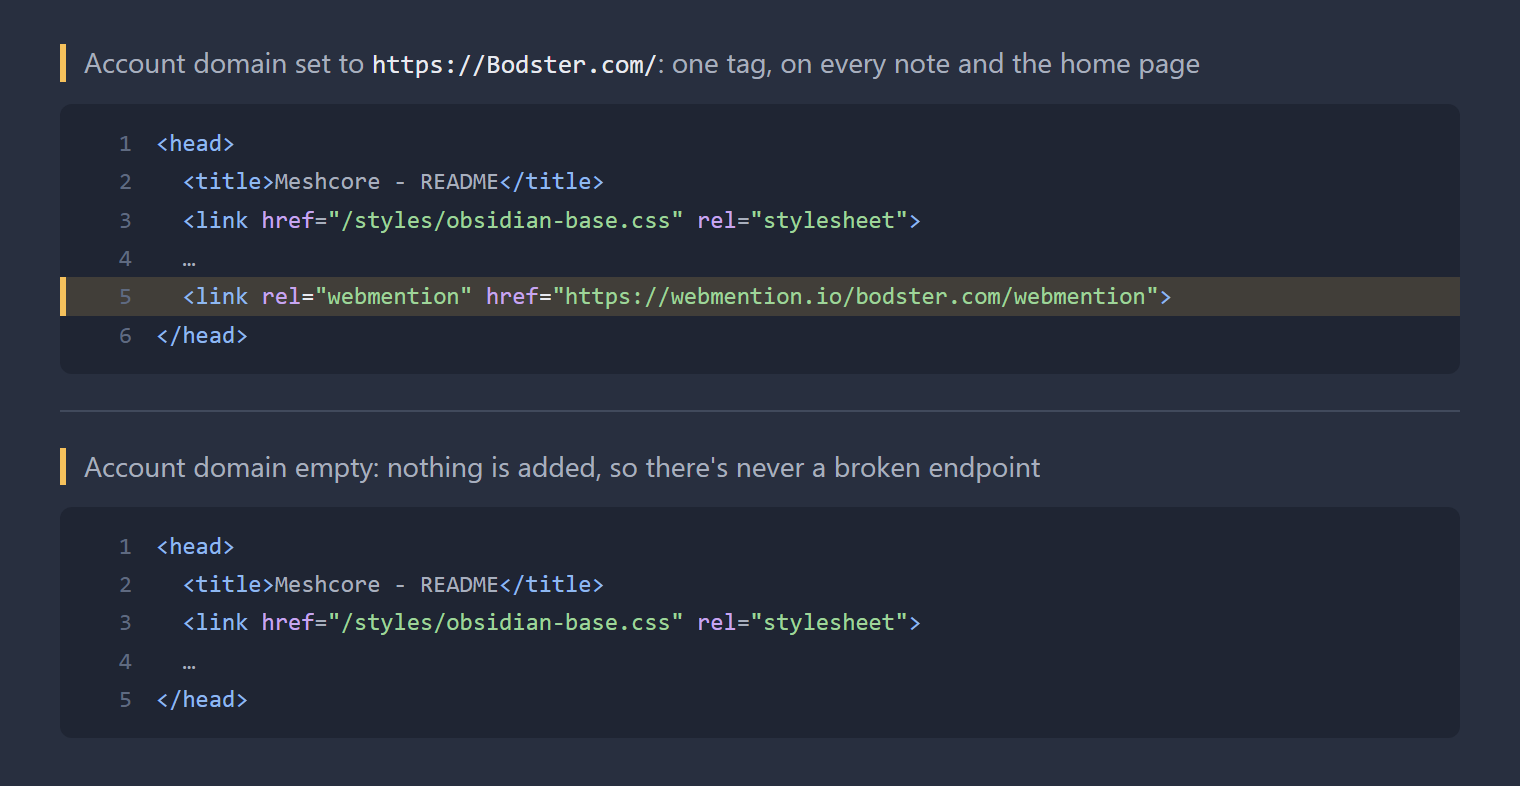
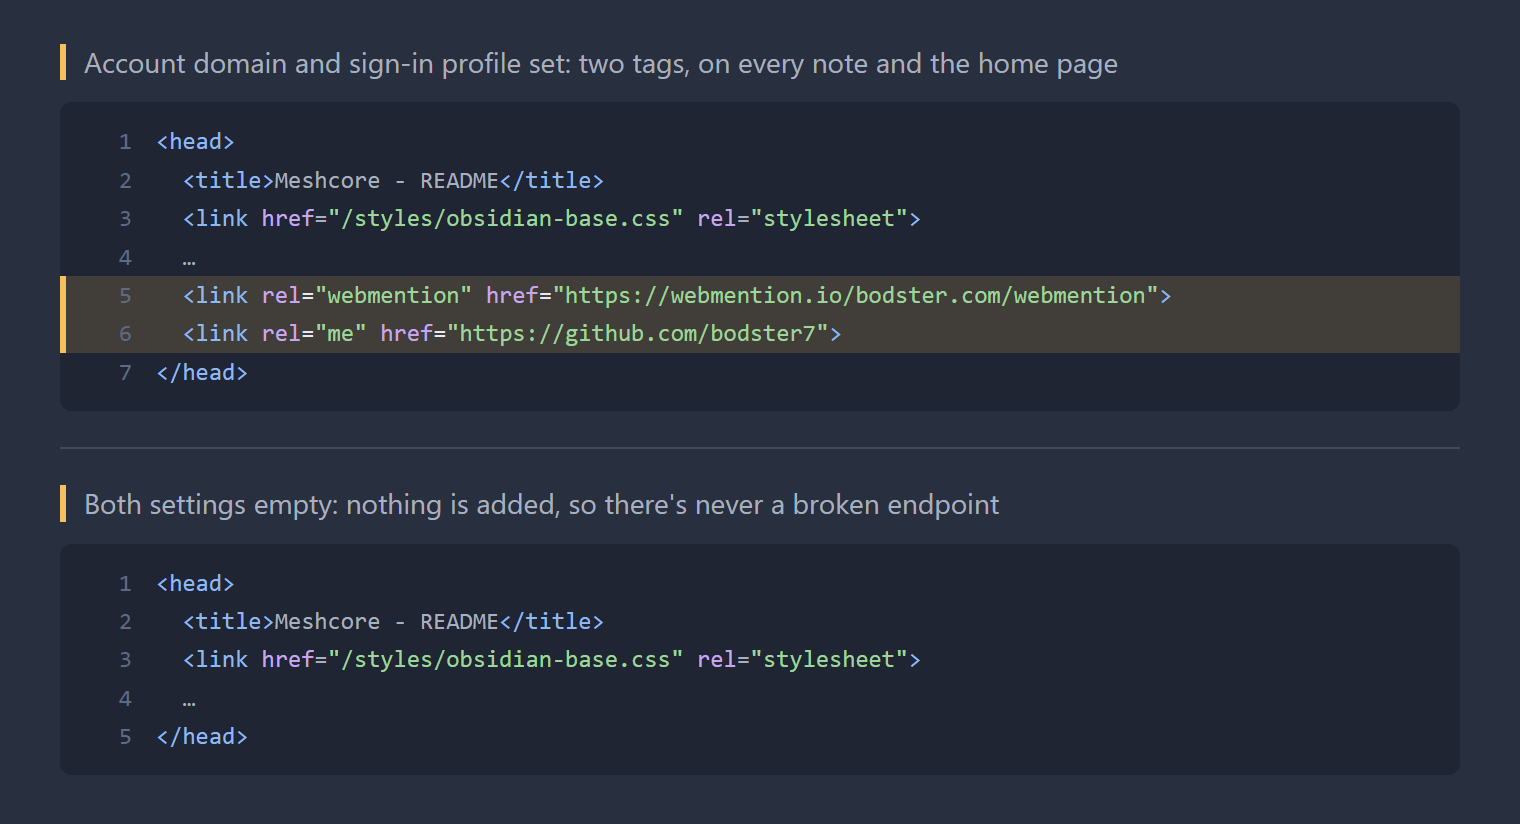
Screenshot: show both tags

diff --git a/README.md b/README.md
@@ -2,7 +2,7 @@
 
 Receive webmentions on your [Digital Garden](https://github.com/oleeskild/digitalgarden) without editing its template.
 
-![The webmention tag in a page's head](screenshot.png)
+![The webmention and rel="me" tags in a page's head](screenshot.png)
 
 ## The problem
 
